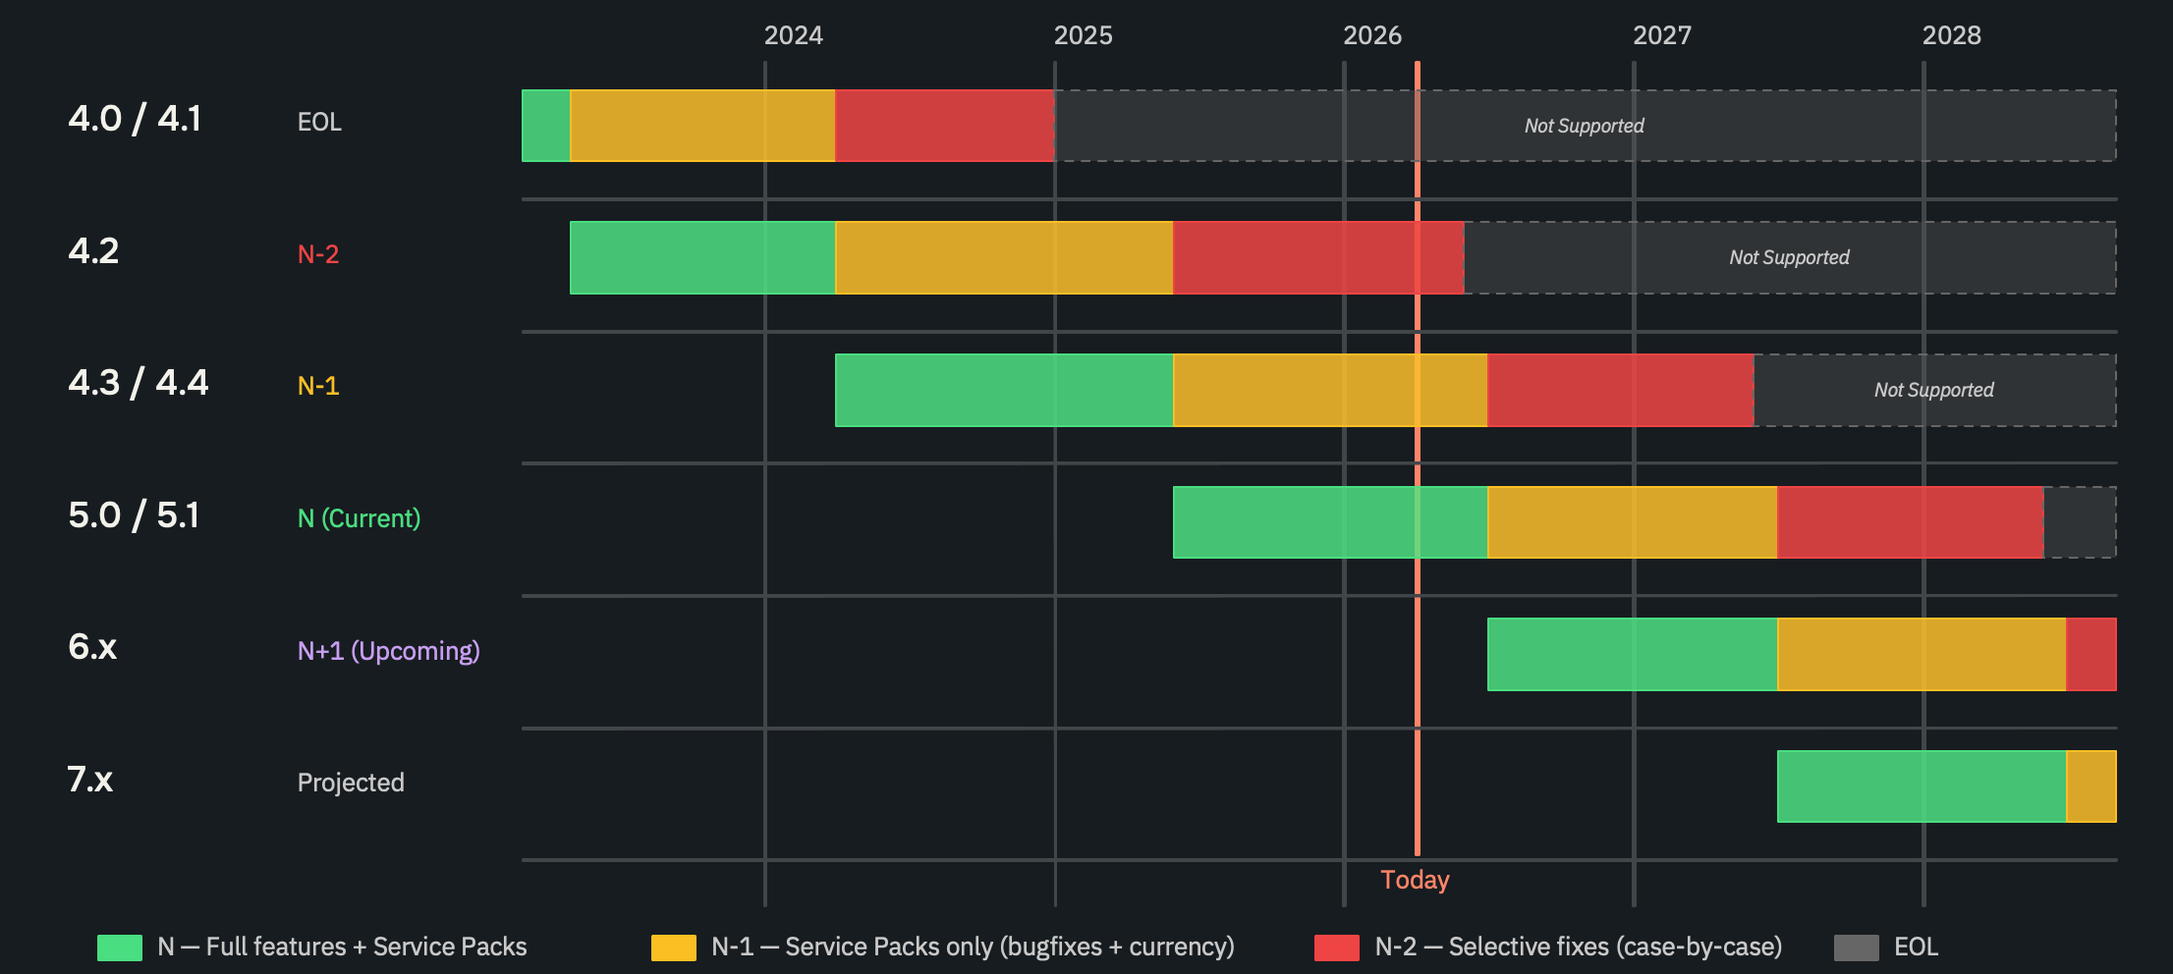
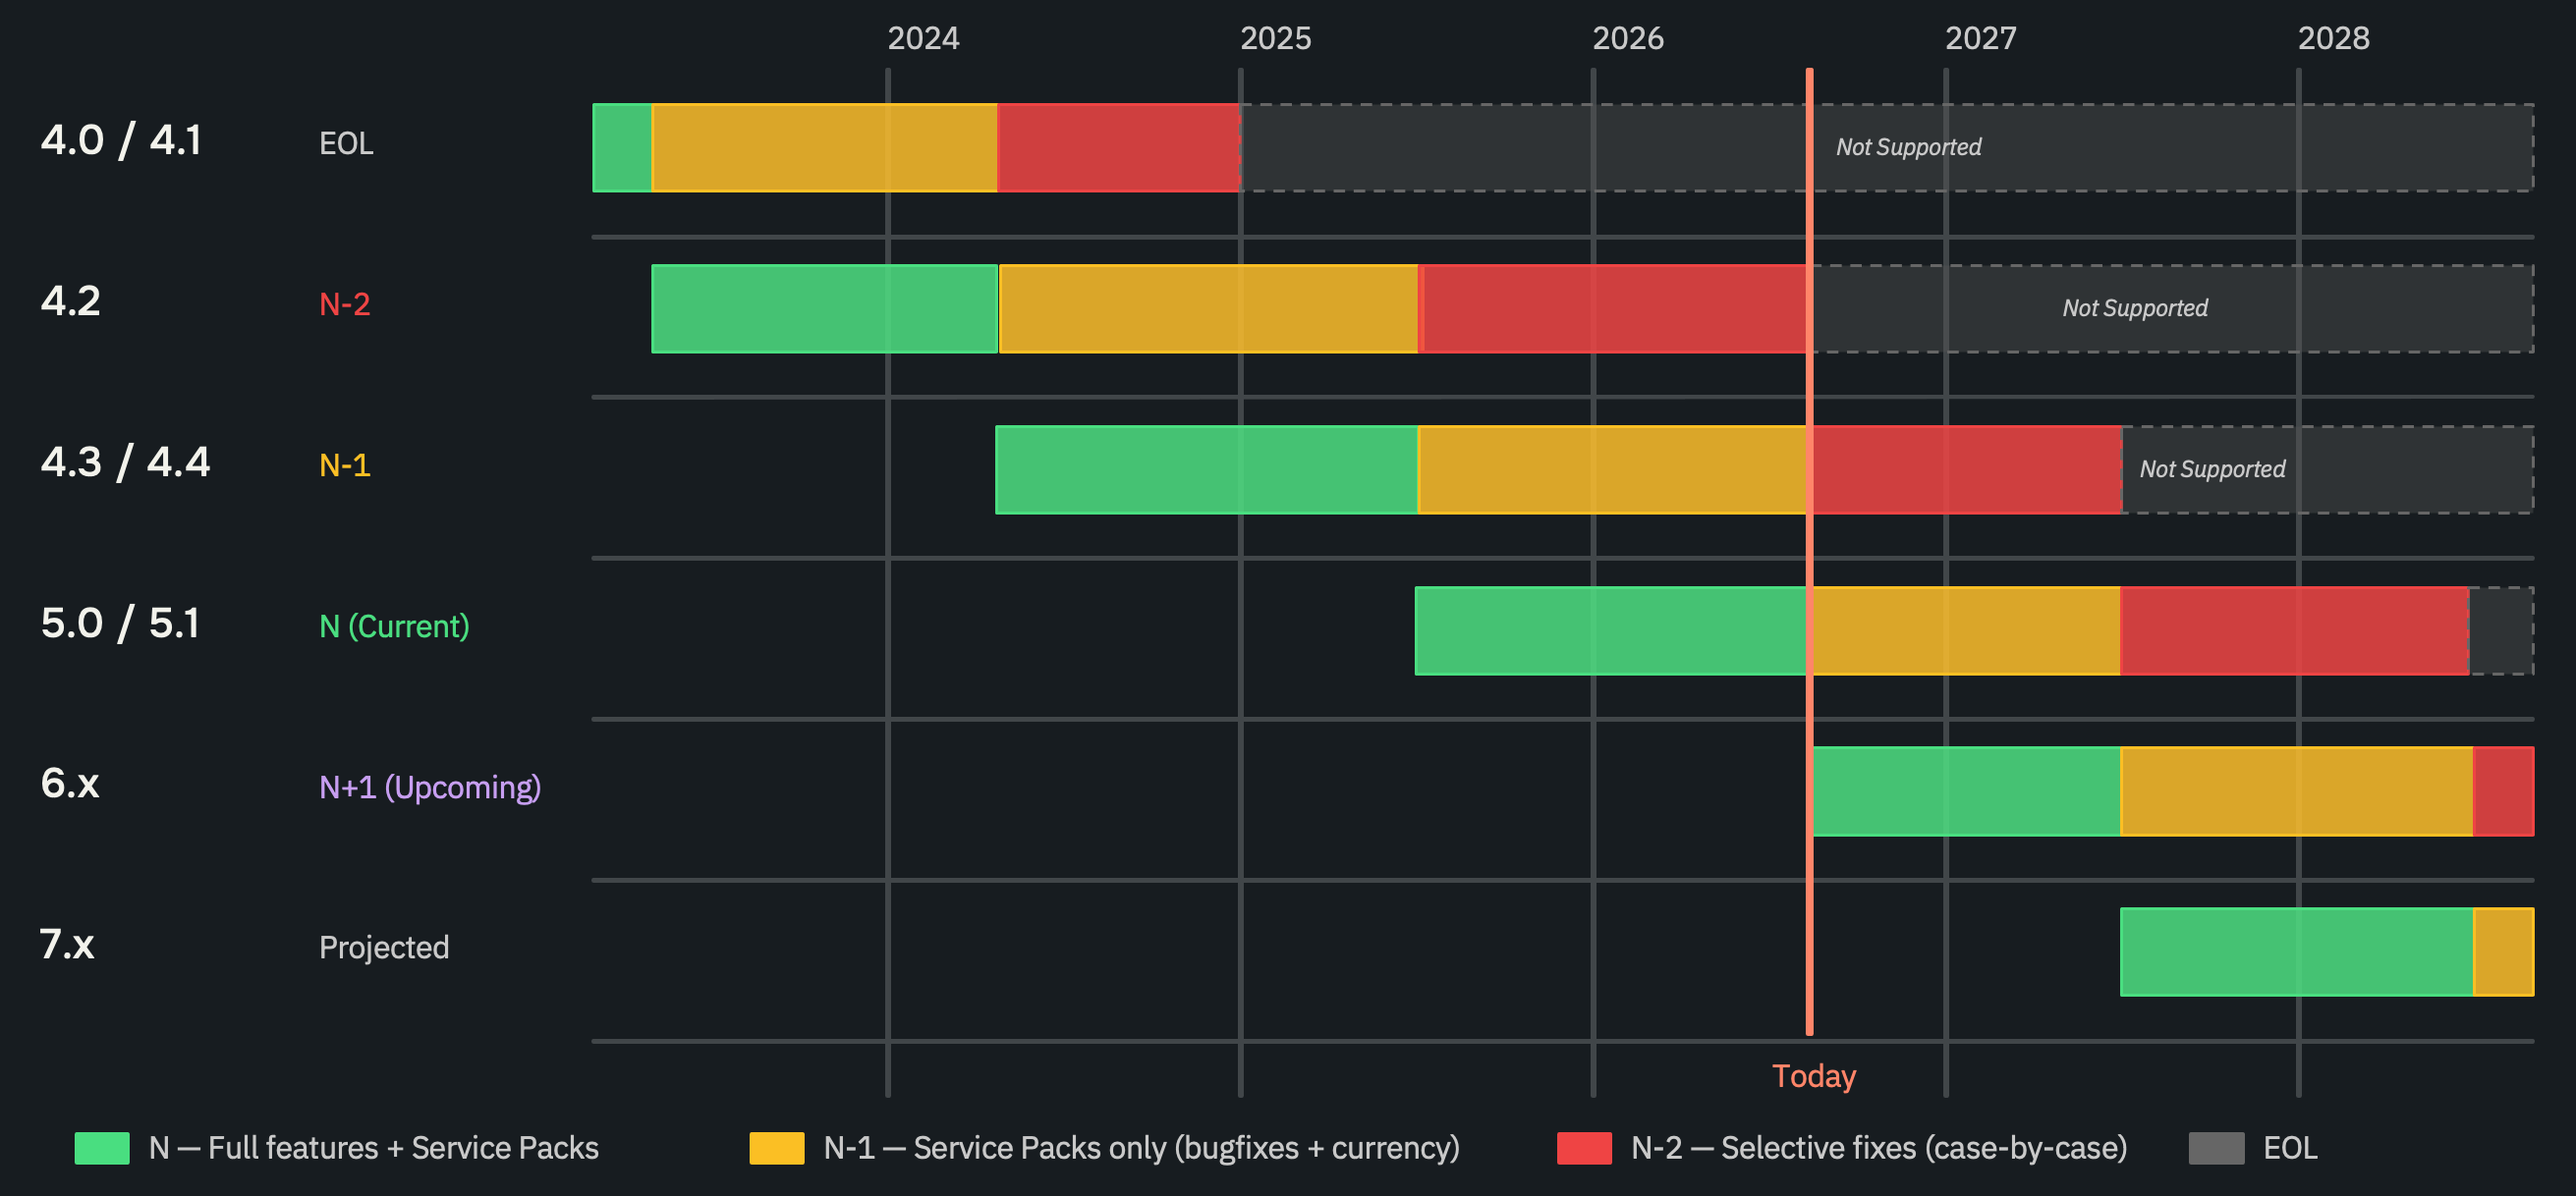
GITBOOK-33: Update the release_line_lifecycle.png for the 6.0 GA

diff --git a/support/release-support-and-commitments.md b/support/release-support-and-commitments.md
@@ -57,10 +57,6 @@ Service packs for Current and Maintenance phases include bug fixes and updates f
 This figure shows an example. Support phases change as new Release Lines are introduced.
 {% endhint %}
 
-{% hint style="warning" %}
-**INTERNAL, remove before publication. TBD (Docs):** Regenerate `release_line_lifecycle.png` for the 6.0 GA. It is drawn against the May 2026 status, which puts 5.x at N; it needs 6.x as N, 5.x as N-1, and 4.3 / 4.4 as N-2, with End of Life dates 36 months from each line's own GA. Check `version_number.png` in the same pass and confirm it does not label 5.x as current.
-{% endhint %}
-
 ## Check the support phase of a Release Line
 
 Identify the current phase and End of Life date of your Release Line before planning an upgrade.
